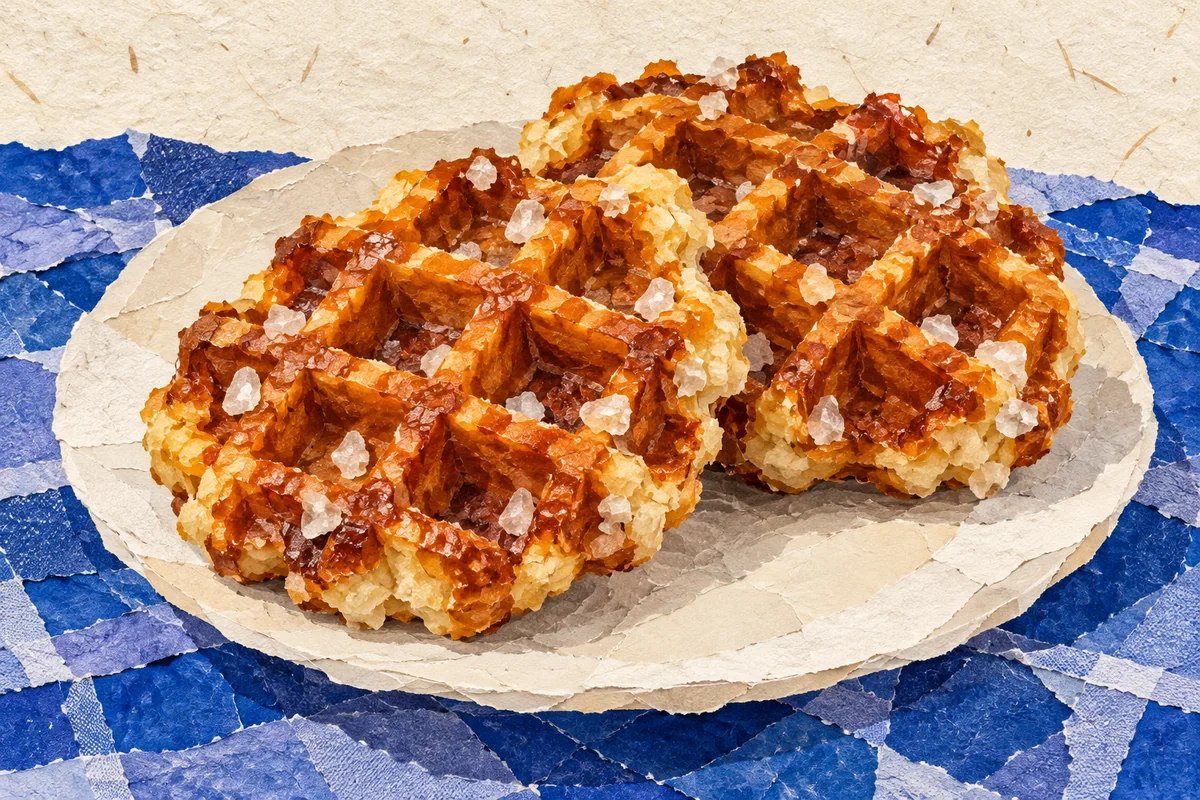
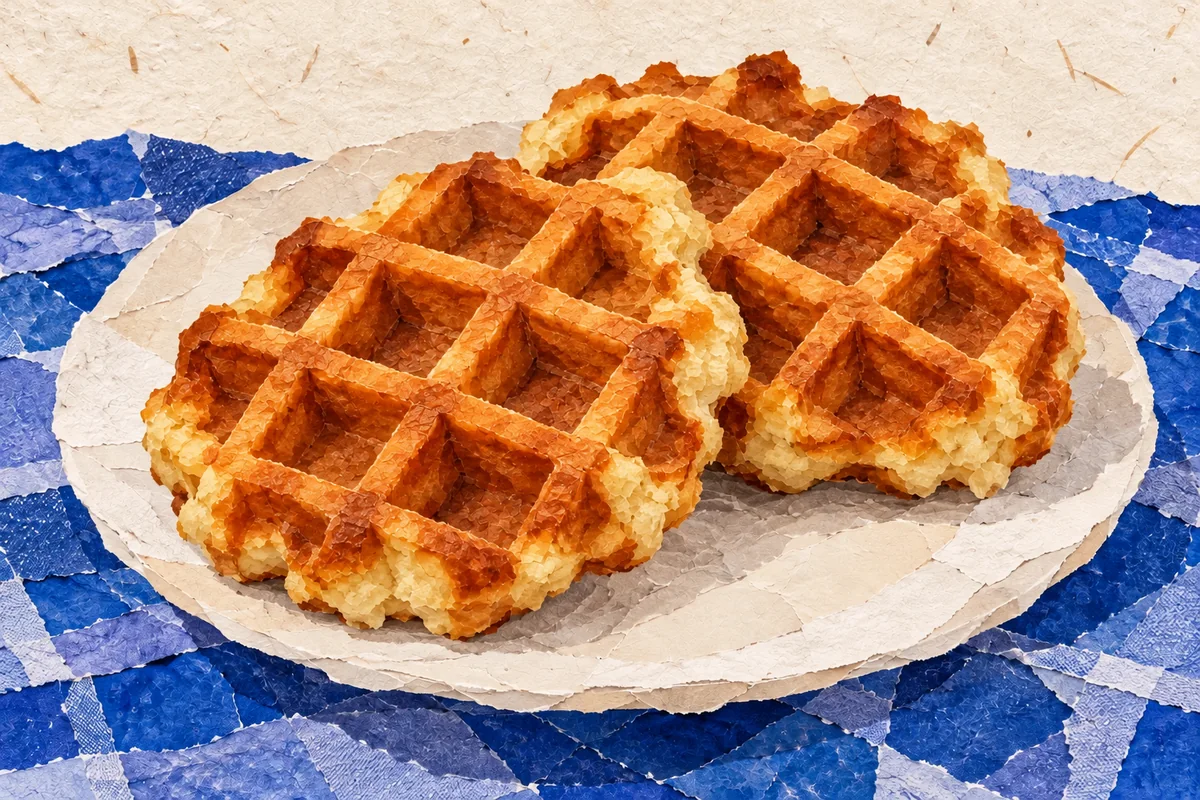
Add unsweetened dough waffles and nest recipes in collections
Replace the Liege placeholder with a complete one-egg brioche-style dough trial without added sugar or pearl sugar. Add kneading, proofing and cooking guidance and matching plain-waffle artwork. Keep the original concept in history as shelved.

Render collections once in the normal recipe grid with their recipes nested inside, rather than a separate banner plus duplicate cards.

Validation: 23 tests, TypeScript and production build pass. Browser QA unavailable.

diff --git a/app/recipe-book.tsx b/app/recipe-book.tsx
@@ -23,6 +23,7 @@ import {
   availableCategories,
   normalizeSearchText,
   recipeSearchText,
+  recipeLibraryEntries,
   stableRecipeNumber,
   type ActiveCategory,
 } from "./library";
@@ -541,8 +542,6 @@ function RecipeLibrary({ onSelect, saved }: { onSelect: (id: string) => void; sa
   const searchRef = useRef<HTMLInputElement>(null);
   const [query, setQuery] = useState("");
   const [category, setCategory] = useState<ActiveCategory>("All");
-  const [collection, setCollection] = useState<string | null>(null);
-  const collections = Array.from(new Set(recipes.map(recipe => recipe.collection).filter((value): value is string => Boolean(value))));
   const normalizedQuery = normalizeSearchText(query.trim());
   const visibleCategories = useMemo(
     () => availableCategories(categories, recipes),
@@ -557,11 +556,52 @@ function RecipeLibrary({ onSelect, saved }: { onSelect: (id: string) => void; sa
         const queryMatch =
           normalizedQuery.length === 0 ||
           recipeSearchText(recipe).includes(normalizedQuery);
-        return categoryMatch && queryMatch && (!collection || recipe.collection === collection);
+        return categoryMatch && queryMatch;
       }),
-    [category, normalizedQuery, collection],
+    [category, normalizedQuery],
   );
-  const isFiltered = category !== "All" || normalizedQuery.length > 0 || Boolean(collection);
+  const isFiltered = category !== "All" || normalizedQuery.length > 0;
+  const renderRecipeCard = (recipe: Recipe, index: number) => (
+<button
+                className={`recipe-card tone-${recipe.tone}`}
+                key={recipe.id}
+                id={`recipe-card-${recipe.id}`}
+                type="button"
+                onClick={() => onSelect(recipe.id)}
+              >
+                <span className="recipe-card-image" aria-hidden="true">
+                  <Image
+                    src={`/recipes/${recipe.id}.webp`}
+                    alt=""
+                    fill
+                    unoptimized
+                    priority={index < 3}
+                    sizes="(max-width: 679px) 108px, (max-width: 979px) 50vw, 33vw"
+                  />
+                </span>
+                <span className="recipe-card-copy">
+                  <span className="recipe-index">
+                    {String(stableRecipeNumber(recipes, recipe.id)).padStart(
+                      2,
+                      "0",
+                    )}{" "}
+                    · {recipe.category}
+                  </span>
+                  <span className="recipe-card-title">{recipe.title}</span>
+                  {preferredRecipe(recipe, notebookFor(recipe, saved)).formulaLabel && <span className="card-formula-status">{preferredRecipe(recipe, notebookFor(recipe, saved)).formulaLabel}</span>}
+                  <span className="recipe-card-tags">
+                    {recipe.tags.slice(0, 3).map((tag) => (
+                      <span className="recipe-tag" key={tag}>
+                        {tag}
+                      </span>
+                    ))}
+                  </span>
+                </span>
+                <span className="card-arrow" aria-hidden="true">
+                  →
+                </span>
+              </button>
+  );
 
   return (
     <main className="recipe-app">
@@ -619,56 +659,14 @@ function RecipeLibrary({ onSelect, saved }: { onSelect: (id: string) => void; sa
           </div>
         </section>
 
-        <section className="collections" aria-label="Recipe collections">
-          {collections.map(name => {
-            const members = recipes.filter(recipe => recipe.collection === name);
-            const active = members.filter(recipe => notebookFor(recipe, saved).experiments.some(experiment => experiment.status === "proposed" && !experiment.concept && !notebookFor(recipe, saved).experiments.some(cook => cook.version === experiment.version && ["tested", "preferred", "rejected"].includes(cook.status)))).length;
-            return <button type="button" className="collection-button" key={name} aria-pressed={collection === name} onClick={() => setCollection(collection === name ? null : name)}><span>{name}</span><small>{members.length} recipes · {active} active {active === 1 ? "experiment" : "experiments"}</small><span aria-hidden="true">{collection === name ? "×" : "→"}</span></button>;
-          })}
-        </section>
         <section className="recipe-grid" aria-live="polite">
           {filteredRecipes.length ? (
-            filteredRecipes.map((recipe, index) => (
-              <button
-                className={`recipe-card tone-${recipe.tone}`}
-                key={recipe.id}
-                id={`recipe-card-${recipe.id}`}
-                type="button"
-                onClick={() => onSelect(recipe.id)}
-              >
-                <span className="recipe-card-image" aria-hidden="true">
-                  <Image
-                    src={`/recipes/${recipe.id}.webp`}
-                    alt=""
-                    fill
-                    unoptimized
-                    priority={index < 3}
-                    sizes="(max-width: 679px) 108px, (max-width: 979px) 50vw, 33vw"
-                  />
-                </span>
-                <span className="recipe-card-copy">
-                  <span className="recipe-index">
-                    {String(stableRecipeNumber(recipes, recipe.id)).padStart(
-                      2,
-                      "0",
-                    )}{" "}
-                    · {recipe.category}
-                  </span>
-                  <span className="recipe-card-title">{recipe.title}</span>
-                  {preferredRecipe(recipe, notebookFor(recipe, saved)).formulaLabel && <span className="card-formula-status">{preferredRecipe(recipe, notebookFor(recipe, saved)).formulaLabel}</span>}
-                  <span className="recipe-card-tags">
-                    {recipe.tags.slice(0, 3).map((tag) => (
-                      <span className="recipe-tag" key={tag}>
-                        {tag}
-                      </span>
-                    ))}
-                  </span>
-                </span>
-                <span className="card-arrow" aria-hidden="true">
-                  →
-                </span>
-              </button>
-            ))
+            recipeLibraryEntries(filteredRecipes).map((entry, index) => entry.kind === "recipe"
+              ? renderRecipeCard(entry.recipe, index)
+              : <details className="recipe-collection" key={entry.name}>
+                  <summary><span className="collection-title">{entry.name}</span><span className="collection-count">{entry.recipes.length} recipes</span><span className="collection-chevron" aria-hidden="true">⌄</span></summary>
+                  <div className="recipe-grid collection-recipes">{entry.recipes.map(renderRecipeCard)}</div>
+                </details>)
           ) : (
             <div className="empty-state">
               <p>No recipes match. Try another ingredient or category.</p>
@@ -676,7 +674,6 @@ function RecipeLibrary({ onSelect, saved }: { onSelect: (id: string) => void; sa
                 searchRef.current?.focus();
                 setQuery("");
                 setCategory("All");
-                setCollection(null);
               }}>Clear filters</button>
             </div>
           )}

diff --git a/app/recipes.ts b/app/recipes.ts
@@ -1190,16 +1190,45 @@ export const recipes: Recipe[] = [
   {
     id: "liege-waffles",
     collection: "Waffles",
-    formulaLabel: "V1 · Concept",
-    concept: true,
-    title: "Liège Waffles",
+    formulaLabel: "V2 · Untested",
+    title: "Liège-style Dough Waffles",
     category: "Breakfast",
-    tags: ["Yeasted dough", "Pearl sugar", "Concept"],
+    tags: ["Yeasted dough", "No added sugar", "Brioche-style"],
     tone: "gold",
-    mark: "?",
-    scale: fixedScale,
-    ingredientGroups: [],
-    notes: ["A separate direction: buttery yeasted brioche-style dough with pearl sugar, rather than pourable batter. Quantities and method have not been developed yet.", "Goal: a caramelized exterior with a chewy-tender pastry interior. Expect caramelized-sugar cleanup challenges on the vintage cast-iron baker. Plan the formula here after recipe development in chat."],
+    mark: "1E",
+    vessel: "F.S. Carbon Rugged I cast-iron waffle baker",
+    yield: "About 4 small dough waffles",
+    yieldCount: { amount: 4, unit: "small dough waffle", plural: "small dough waffles", approximate: true },
+    heat: "Waffle iron · medium heat if adjustable",
+    time: "20 min prep + 1½–3 hr rise + 30–60 min proof + cooking",
+    scale: { kind: "egg", label: "Whole eggs", base: { numerator: 1 }, options: wholeEggOptions },
+    ingredientGroups: [{ title: "Unsweetened enriched dough", items: [
+      { name: "All-purpose flour", amount: { numerator: 150 }, unit: "g" },
+      { name: "Large egg", amount: { numerator: 1 }, unit: "egg", note: "about 50g without shell; whole, no whipping" },
+      { name: "2% milk", amount: { numerator: 60 }, unit: "g", note: "lukewarm, not hot" },
+      { name: "Unsalted butter, softened", amount: { numerator: 45 }, unit: "g", note: "soft and pliable, not melted" },
+      { name: "Instant yeast", amount: { numerator: 2 }, unit: "g" },
+      { name: "Fine salt", amount: { numerator: 5, denominator: 2 }, unit: "g" },
+      { name: "Vanilla extract", amount: { numerator: 2 }, unit: "g", note: "optional; omit for savoury waffles" },
+    ] }],
+    method: [
+      "Mix the flour, instant yeast and salt. Add the whole egg, lukewarm milk and optional vanilla. Stir to form a soft dough, then knead until it starts to look smooth and elastic, about 5–8 minutes. A dough hook is convenient; for this small batch you can knead by hand with a scraper.",
+      "Work in the softened butter in small pieces, incorporating each before adding the next. Knead another 5–10 minutes, until smooth, stretchy and tacky rather than pourable. The dough may look messy before it comes together; avoid adding a lot of flour. If very sticky, rest 10 minutes and resume kneading.",
+      "Cover and let rise at room temperature until roughly doubled and visibly airy, about 1½–3 hours depending on temperature. Use the dough's expansion rather than the clock.",
+      "Gently deflate. Divide the one-egg batch into 4 equal balls, roughly 75–80g each. For a scaled batch, use 4 balls per egg. Cover and proof 30–60 minutes until puffy; they need not double again.",
+      "Preheat the iron thoroughly; use medium heat if it is adjustable. Lightly grease the grids if needed. Place one puffy dough ball in the centre and gently close the lid without forcing it. The waffle will be smaller and irregular, rather than filling a round grid.",
+      "Cook until golden brown, set through the centre and easy to release. Start checking around 3–5 minutes; the vintage iron may need longer. Split the first waffle to check for raw dough, then adjust the next cook. A thermometer in the centre should read roughly 190–200°F (88–93°C).",
+      "Move to a wire rack. Assess the crust immediately and after 2 and 5 minutes, plus tenderness of the centre. Serve plain or add toppings on the plate, away from the iron.",
+    ],
+    notes: [
+      "Original experimental formula, not yet tested in your iron. This is a Liège-inspired brioche-style dough waffle without granulated sugar, pearl sugar, honey or syrup in the dough. It will not have the traditional caramelized sugar crust.",
+      "Aim for buttery, tender bread with a lightly crisp surface. A dough waffle may still have more chew than a batter waffle; fluffiness and crispness retention need a real trial.",
+      "All-purpose flour is the baseline. Bread flour can be used if necessary, but may give a chewier result; log it as a variable rather than silently swapping it.",
+      "Overnight option: after kneading, let the dough start rising for 30–60 minutes, then cover and refrigerate 8–16 hours. Next day, divide and shape while cool; let the balls warm and become puffy before cooking, often 1–2 hours. Skip the full room-temperature bulk rise in this route.",
+      "Omitting pearl sugar removes caramelized-sugar residue from this experiment; butter and dough can still leave residue. Once unplugged and cooled enough to handle, use a soft brush or damp cloth, then dry thoroughly. Follow the iron's care instructions and avoid scraping the seasoning with metal.",
+      "Method inspiration: traditional Liège dough waffles and enriched-bread mixing. The formula above is our unsweetened trial, not Anna Olson's recipe.",
+    ],
+    sourceUrl: "https://annaolson.ca/project/liege-waffles/",
   },
 ];
 
@@ -1227,4 +1256,11 @@ everyday.experiments = [
 const overnight = recipes.find(recipe => recipe.id === "overnight-yeasted-waffles")!;
 overnight.experiments = [{ id: "overnight-v1", version: "V1", title: "Friday prep · Saturday cook", status: "proposed", hypothesis: "Long fermentation may give a delicate crust and richer flavour.", changes: "Existing overnight formula, preserved exactly.", observations: "", outcome: "", formula: snapshotFormula(overnight) }];
 const liege = recipes.find(recipe => recipe.id === "liege-waffles")!;
-liege.experiments = [{ id: "liege-v1", version: "V1", title: "Yeasted brioche dough", status: "proposed", concept: true, hypothesis: "Explore a buttery, caramelized, chewy-tender pastry waffle.", changes: "Enriched dough with pearl sugar; quantities still to develop.", observations: "", outcome: "", formula: snapshotFormula(liege) }];
+const originalLiegeConcept = {
+  scale: fixedScale, ingredientGroups: [],
+  notes: ["Original direction: buttery yeasted brioche-style dough with pearl sugar. Quantities and method were not developed.", "Shelved in favour of a no-added-sugar dough trial to avoid caramelized-sugar cleanup."],
+};
+liege.experiments = [
+  { id: "liege-v1", version: "V1", title: "Pearl-sugar concept (shelved)", status: "rejected", concept: true, hypothesis: "Explore a buttery pastry waffle with caramelized sugar.", changes: "Original concept only; no measured formula or test.", observations: "", outcome: "Corey chose to omit sugar to simplify cleaning the vintage iron.", formula: snapshotFormula(originalLiegeConcept) },
+  { id: "liege-v2", version: "V2", title: "Unsweetened brioche-style dough", status: "proposed", hypothesis: "A butter-enriched dough may give a tender pastry-like centre without caramelized-sugar residue.", changes: "Complete one-egg dough formula; no added sugar or pearl sugar. Whole egg, no whipping.", observations: "", outcome: "", formula: snapshotFormula(liege) },
+];

diff --git a/app/globals.css b/app/globals.css
@@ -1410,12 +1410,6 @@ input:focus-visible,
   }
 }
 
-.collections { margin: 0 0 28px; }
-.collection-button { width: 100%; display: grid; grid-template-columns: 1fr auto; gap: 5px; padding: 20px 22px; border: 1px solid var(--gold); background: rgba(196,164,62,.08); color: var(--cream); text-align: left; cursor: pointer; }
-.collection-button > span:first-child { font-size: 25px; }
-.collection-button small { grid-column: 1; color: var(--cream); }
-.collection-button > span:last-child { grid-column: 2; grid-row: 1 / 3; align-self: center; font-size: 25px; }
-.collection-button[aria-pressed="true"] { background: rgba(196,164,62,.2); }
 .card-formula-status { display: block; font: 11px var(--font-mono-fallback); margin: 8px 0; line-height: 1.5; }
 .formula-version { grid-column: 1 / -1; font: 12px var(--font-mono-fallback); margin: 0; }
 .experiment-notebook { margin-top: 38px; border-top: 1px solid var(--rule); padding: 28px clamp(18px,4vw,40px); background: var(--paper); color: var(--ink); }
@@ -1445,3 +1439,13 @@ input:focus-visible,
 
 .concept-body .recipe-guidance { grid-column: 1 / -1; }
 .formula-version { padding: 10px 12px; background: var(--warm-black-90); }
+
+.recipe-collection { grid-column: 1 / -1; border: 1px solid rgba(226,221,208,.2); }
+.recipe-collection summary { display: flex; align-items: center; gap: 14px; padding: 22px; cursor: pointer; list-style: none; }
+.recipe-collection summary::-webkit-details-marker { display: none; }
+.recipe-collection summary:focus-visible { outline: 3px solid var(--cobalt-light); outline-offset: 3px; }
+.collection-title { font-size: 25px; }
+.collection-count { font: 12px var(--font-mono-fallback); color: var(--cream); }
+.collection-chevron { margin-left: auto; font-size: 24px; transition: transform .15s; }
+.recipe-collection[open] .collection-chevron { transform: rotate(180deg); }
+.collection-recipes { padding: 0 18px 18px; }

diff --git a/app/library.ts b/app/library.ts
@@ -46,3 +46,21 @@ export function availableCategories(
 export function stableRecipeNumber(recipes: Recipe[], id: string): number {
   return recipes.findIndex((recipe) => recipe.id === id) + 1;
 }
+
+export type RecipeLibraryEntry =
+  | { kind: "recipe"; recipe: Recipe }
+  | { kind: "collection"; name: string; recipes: Recipe[] };
+
+/** Place each collection once, at its first member's position, with no duplicates. */
+export function recipeLibraryEntries(filteredRecipes: Recipe[]): RecipeLibraryEntry[] {
+  const entries: RecipeLibraryEntry[] = [];
+  const seen = new Set<string>();
+  for (const recipe of filteredRecipes) {
+    if (!recipe.collection) entries.push({ kind: "recipe", recipe });
+    else if (!seen.has(recipe.collection)) {
+      seen.add(recipe.collection);
+      entries.push({ kind: "collection", name: recipe.collection, recipes: filteredRecipes.filter(member => member.collection === recipe.collection) });
+    }
+  }
+  return entries;
+}

diff --git a/public/sw.js b/public/sw.js
@@ -1,4 +1,4 @@
-const CACHE_NAME = "misus-recipes-v11";
+const CACHE_NAME = "misus-recipes-v12";
 const APP_SHELL = [
   "/",
   "/manifest.webmanifest",

diff --git a/README.md b/README.md
@@ -24,8 +24,9 @@ checks the scaling behavior against representative formulas.
 
 ## Recipe experiments
 
-Collections are optional recipe metadata; Waffles contains Everyday Crispy,
-Overnight Yeasted, and a Liège concept. The existing overnight formula is
+Collections are optional recipe metadata, rendered once as expandable groups
+within the normal recipe grid; Waffles contains Everyday Crispy,
+Overnight Yeasted, and an unsweetened Liège-style dough trial. The existing overnight formula is
 unchanged. Everyday opens on tested V1; V2 remains proposed until cooked.
 
 Every recipe has an Experiment history below its cooking view. Open a snapshot
@@ -42,8 +43,9 @@ history remains in source. Saving failures keep the form open. Corrupt saved
 data is left untouched rather than overwritten.
 
 New source recipes remain in `app/recipes.ts`; optional collections, formula
-labels and seeded snapshots are data-only additions. Liège is deliberately a
-concept without invented quantities. No backend or authentication was added.
+labels and seeded snapshots are data-only additions. Liège-style V2 is a complete no-added-sugar dough experiment with kneading,
+rising, proofing and cooking instructions; it is explicitly untested. The prior
+pearl-sugar concept remains in history as shelved. No backend or authentication was added.
 
 Validation: `pnpm test` builds and runs all scaling and experiment tests;
 `pnpm exec tsc --noEmit` checks types. Browser QA needs the supported Sites
@@ -52,4 +54,4 @@ control-browser environment.
 Artwork: the two new assets in `public/recipes/` were generated with the built-in
 imagegen tool using layered torn-paper food collage, ivory paper, cobalt and
 periwinkle cloth. Everyday depicts round golden batter waffles with butter;
-Liège depicts irregular caramelized brioche waffles with pearl sugar.
+Liège depicts plain golden brioche-style waffles without pearl sugar or glaze.
